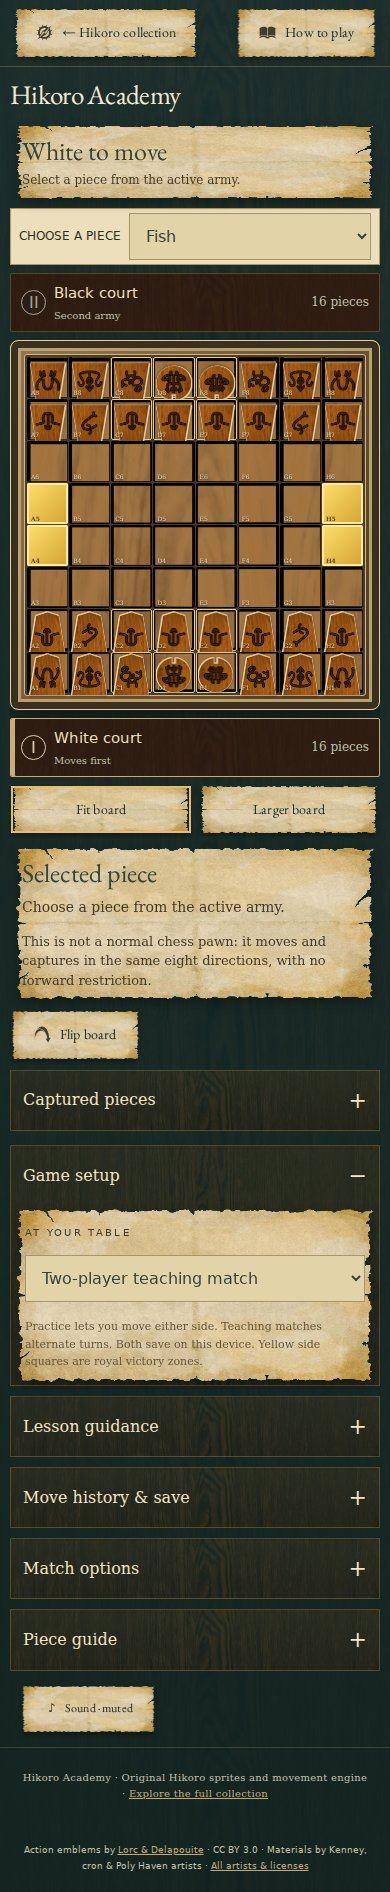
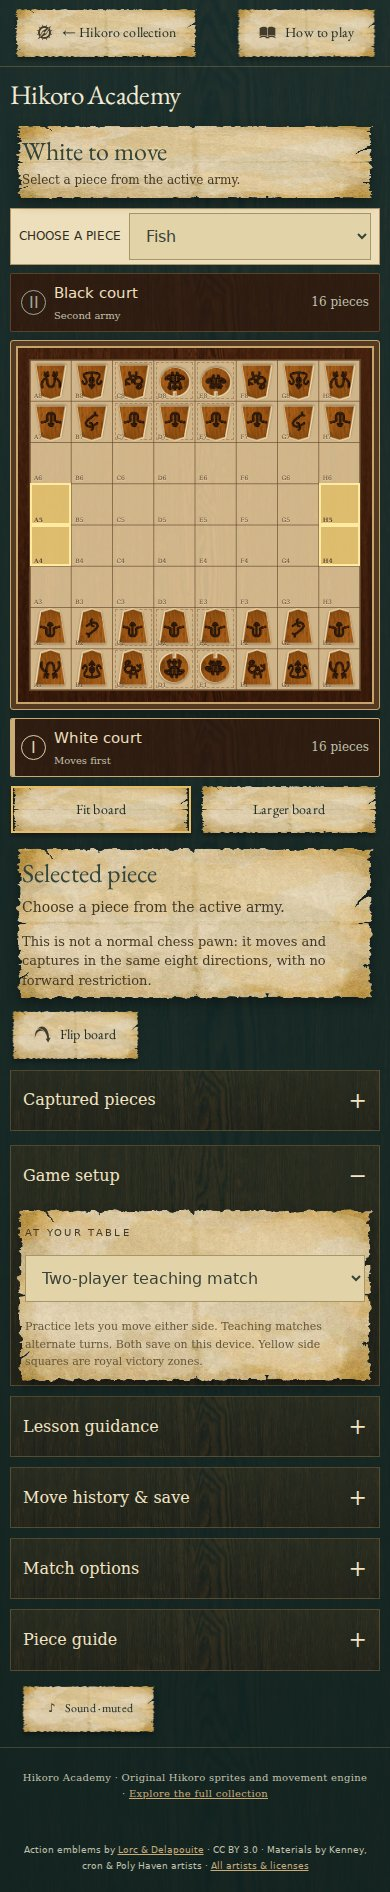
Replace Academy board with dedicated maple wood 8x8 asset
Use a credited photographic wood texture and native SVG grid. Keep squares aligned and contain sprites inside their cells. Refresh Academy card and desktop/phone previews.

Changed region(s): [[0.0, 0.1559, 0.9846, 0.3742]]

diff --git a/HikoroChess/public/academy-ui.js b/HikoroChess/public/academy-ui.js
@@ -12,7 +12,7 @@ function choose(to){if(!canPlay())return;notice('');if(selected&&A.legalMoves(st
 for(let r=0;r<8;r++)for(let c=0;c<8;c++){const b=document.createElement('button');b.type='button';b.dataset.r=r;b.dataset.c=c;b.className='mini-cell';b.tabIndex=-1;b.addEventListener('click',()=>choose({r,c}));b.addEventListener('keydown',e=>{const dirs={ArrowLeft:[0,-1],ArrowRight:[0,1],ArrowUp:[-1,0],ArrowDown:[1,0]};if(dirs[e.key]){e.preventDefault();const [dr,dc]=dirs[e.key],sign=flipped?-1:1,nr=Math.max(0,Math.min(7,r+dr*sign)),nc=Math.max(0,Math.min(7,c+dc*sign));cells.forEach(b=>b.tabIndex=-1);const next=cells[nr*8+nc];next.tabIndex=0;next.focus();}else if(e.key==='Escape'){selected=null;render();}});cells.push(b);$('board').append(b);}
 function render(){
 const legal=selected&&canPlay()?A.legalMoves(state,selected):[];
-for(const b of cells){const r=Number(b.dataset.r),c=Number(b.dataset.c),p=state.board[r][c],valid=legal.some(m=>m.r===r&&m.c===c),sel=selected?.r===r&&selected?.c===c;b.style.order=(flipped?7-r:r)*8+(flipped?7-c:c);b.style.setProperty('--wood-column',String(2+c%6));b.style.setProperty('--wood-row',String(3+r));b.className='mini-cell'+((r+c)%2?' dark':'')+(valid?' legal'+(p?' capture':''):'')+(sel?' selected':'');if(A.sanctuary({r,c}))b.classList.add('sanctuary');for(const owner of [1,2])if(A.inPalace({r,c},owner)){b.classList.add('palace','palace-'+owner);if(A.hasPrince(state.board,owner))b.classList.add('palace-locked');}if([state.lastMove?.from,state.lastMove?.to].some(m=>m?.r===r&&m?.c===c))b.classList.add('last');b.setAttribute('aria-pressed',String(sel));b.setAttribute('aria-label',A.coord({r,c})+(A.sanctuary({r,c})?'; yellow sanctuary':A.inPalace({r,c},1)?'; White home palace':A.inPalace({r,c},2)?'; Black home palace':'')+': '+(p?names[p.owner]+' '+A.TYPES[p.type].name:'empty')+(valid?p?'; legal capture':'; legal move':''));b.replaceChildren();if(p){const token=document.createElement('span');token.className='mini-piece p'+p.owner;const img=document.createElement('img');img.src=sprite(p.type,p.owner);img.alt='';HikoroArtwork.orient(img,p.owner,flipped?2:1);token.append(img);b.append(token);}const label=document.createElement('span');label.className='cell-coordinate';label.textContent=A.coord({r,c});b.append(label);}
+for(const b of cells){const r=Number(b.dataset.r),c=Number(b.dataset.c),p=state.board[r][c],valid=legal.some(m=>m.r===r&&m.c===c),sel=selected?.r===r&&selected?.c===c;b.style.order=(flipped?7-r:r)*8+(flipped?7-c:c);b.className='mini-cell'+((r+c)%2?' dark':'')+(valid?' legal'+(p?' capture':''):'')+(sel?' selected':'');if(A.sanctuary({r,c}))b.classList.add('sanctuary');for(const owner of [1,2])if(A.inPalace({r,c},owner)){b.classList.add('palace','palace-'+owner);if(A.hasPrince(state.board,owner))b.classList.add('palace-locked');}if([state.lastMove?.from,state.lastMove?.to].some(m=>m?.r===r&&m?.c===c))b.classList.add('last');b.setAttribute('aria-pressed',String(sel));b.setAttribute('aria-label',A.coord({r,c})+(A.sanctuary({r,c})?'; yellow sanctuary':A.inPalace({r,c},1)?'; White home palace':A.inPalace({r,c},2)?'; Black home palace':'')+': '+(p?names[p.owner]+' '+A.TYPES[p.type].name:'empty')+(valid?p?'; legal capture':'; legal move':''));b.replaceChildren();if(p){const token=document.createElement('span');token.className='mini-piece p'+p.owner;const img=document.createElement('img');img.src=sprite(p.type,p.owner);img.alt='';HikoroArtwork.orient(img,p.owner,flipped?2:1);token.append(img);b.append(token);}const label=document.createElement('span');label.className='cell-coordinate';label.textContent=A.coord({r,c});b.append(label);}
 if(!cells.some(b=>b.tabIndex===0))cells[35].tabIndex=0;
 $('turn-status').textContent=state.result?state.result.winner?names[state.result.winner]+' wins':'Draw':closed?'Table closed':mode==='lesson'?A.TYPES[lesson].name+' practice':names[state.player]+' to move';
 $('play-mode').textContent=online?'ONLINE TEACHING MATCH':mode==='lesson'?'GUIDED PRACTICE · MOVE EITHER COLOR':'TWO-PLAYER TEACHING MATCH';

diff --git a/HikoroChess/public/hikoro-artwork.css b/HikoroChess/public/hikoro-artwork.css
@@ -17,12 +17,14 @@
 .hand-pager{display:flex;align-items:center;justify-content:center;gap:6px}.hand-pager[hidden]{display:none}.hand-pager .quiet-button{min-height:44px}
 .hikoro-site .captured-area{width:180px!important;min-height:0!important}
 .hikoro-site .piece-entry img{image-rendering:auto}
-.academy-table #board .mini-cell{background:url('assets/hikoro-wood/board.webp');background-size:1000% 1600%;background-position:calc(var(--wood-column)/9*100%) calc(var(--wood-row)/15*100%)}
-.academy-table #board .mini-cell.sanctuary{background:linear-gradient(135deg,#ffdf6b,#d4a332)}
-.academy-table #board .mini-cell.palace-locked{outline:1px solid #e6ce83;outline-offset:-1px}
-.academy-table .cell-coordinate,.academy-table #board .mini-cell.dark .cell-coordinate{color:#f4e5bd;text-shadow:0 1px 2px #27190e}
-.academy-table #board .mini-cell.sanctuary .cell-coordinate{color:#493415;text-shadow:none}
-.academy-table .mini-piece{width:96%;height:96%}.academy-table .piece-owner{display:none}
+/* A dedicated square board: one uninterrupted wood surface and an exact 8 × 8 grid. */
+.academy-table #board{aspect-ratio:1;grid-template-rows:repeat(8,minmax(0,1fr));background:url('assets/hikoro-wood/academy-board.svg') center/100% 100% no-repeat;gap:0;padding:0;border:1px solid #62452b;border-radius:0;box-shadow:none}
+.academy-table #board .mini-cell,.academy-table #board .mini-cell.dark{background:transparent;border-radius:0;min-height:0;height:100%;aspect-ratio:auto}
+.academy-table #board .mini-cell.sanctuary{background:#eec54b70}
+.academy-table #board .mini-cell.palace-locked{background-image:none;outline:1px dashed #85613977;outline-offset:-3px}
+.academy-table .cell-coordinate,.academy-table #board .mini-cell.dark .cell-coordinate,.academy-table #board .mini-cell.sanctuary .cell-coordinate{color:#503820;text-shadow:0 1px #fff6}
+.academy-table .mini-board-frame{background:linear-gradient(#55371b44,#29190b66),var(--wood) center/cover;border:1px solid #c7a46c;padding:18px;border-radius:3px;box-shadow:0 12px 30px #0005,inset 0 0 0 5px #543a23,inset 0 0 0 7px #c7a46c}
+.academy-table .mini-piece{display:flex;align-items:center;justify-content:center;position:absolute;inset:2%;width:96%;height:96%;min-width:0;min-height:0}.academy-table .piece-owner{display:none}
 .academy-table .guide-card img,.academy-table .selection-detail img,.academy-table .capture-list img{image-rendering:auto;object-fit:contain}
 @media(max-width:760px){
  .hikoro-site #game-board>.corner-hand{overflow:visible!important;flex-wrap:nowrap!important}

diff --git a/docs/wood-art/README.md b/docs/wood-art/README.md
@@ -1,6 +1,6 @@
 # Supplied wooden Hikoro artwork
 
-Updates the full Hikoro game and Academy to use the nineteen supplied piece images. Pieces use a shared 28% brightness boost, slight contrast increase, and fine cream edge through CSS; the supplied image pixels remain unchanged. Both armies share one asset per type, with ownership shown by rotation relative to the viewer. The full game uses the supplied 10 × 16 board; captured hands occupy the twelve unused corner cells at each end. Duplicate types display a count. Academy retains its 8 × 8 geometry and uses the supplied wood texture.
+Updates the full Hikoro game and Academy to use the nineteen supplied piece images. Pieces use a shared 28% brightness boost, slight contrast increase, and fine cream edge through CSS; the supplied image pixels remain unchanged. Both armies share one asset per type, with ownership shown by rotation relative to the viewer. The full game uses the supplied 10 × 16 board; captured hands occupy the twelve unused corner cells at each end. Duplicate types display a count. Academy uses a dedicated 8 × 8 maple board SVG with an uninterrupted credited photographic wood texture, aligned grid, and walnut frame.
 
 ## Previews
 

diff --git a/HikoroChess/public/assets/hikoro-wood/CREDITS.md b/HikoroChess/public/assets/hikoro-wood/CREDITS.md
@@ -3,3 +3,7 @@
 Board and nineteen wooden piece images supplied by the repository owner on 2026-10-07. The original artist name and license were not supplied; attribution is pending that information. We do not claim authorship or an open license.
 
 Delivery files use lossless WebP encoding, verified to reproduce the supplied RGBA pixels exactly. Originals are identified by filename and SHA-256 in [sources.json](sources.json). Both sides use the same artwork; CSS rotation shows ownership. No artwork was generated for this update.
+
+## Academy 8 × 8 board
+
+`academy-board.svg` uses native SVG grid lines over the existing **Wood Table 001** photographic texture: **Dimitrios Savva** (photography), **Rico Cilliers** (processing), [Poly Haven](https://polyhaven.com/a/wood_table_001), CC0. The photograph is embedded unchanged with a light maple-colored display overlay. No AI imagery was generated.
